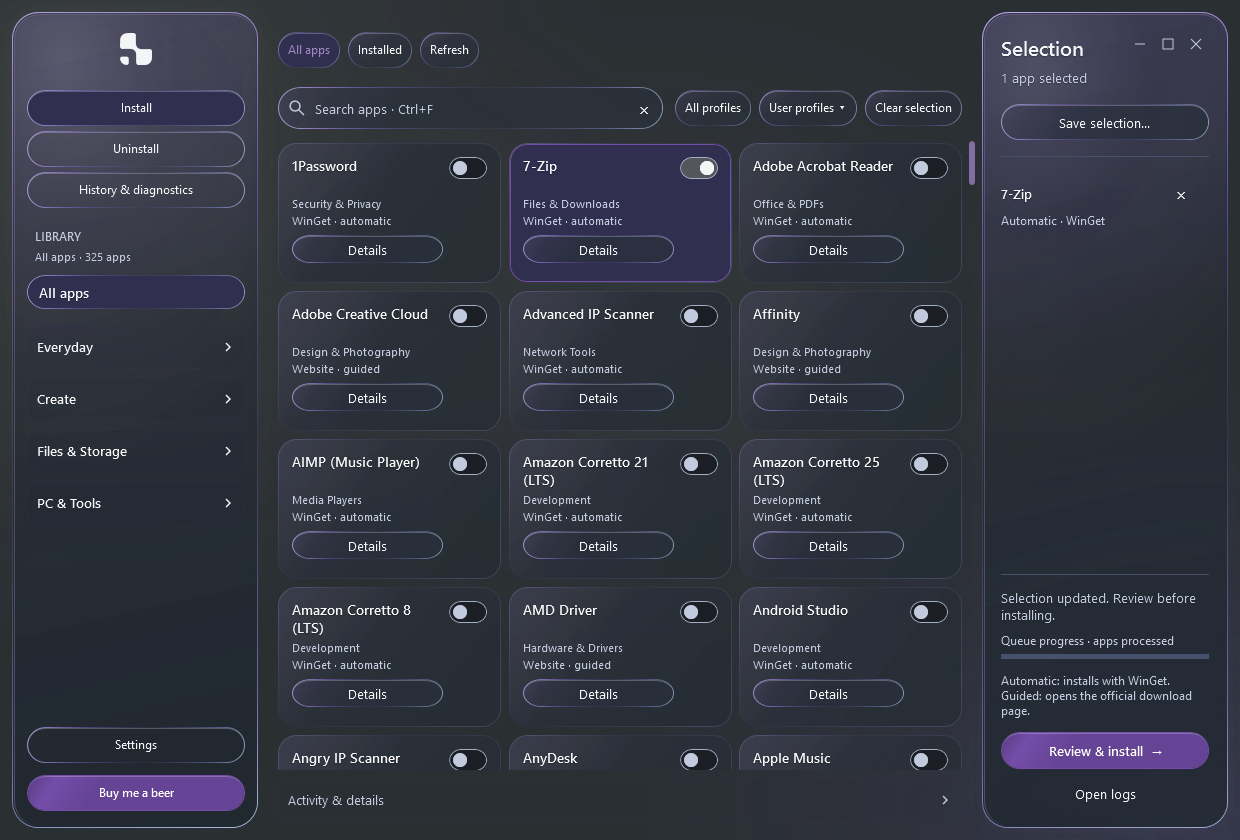
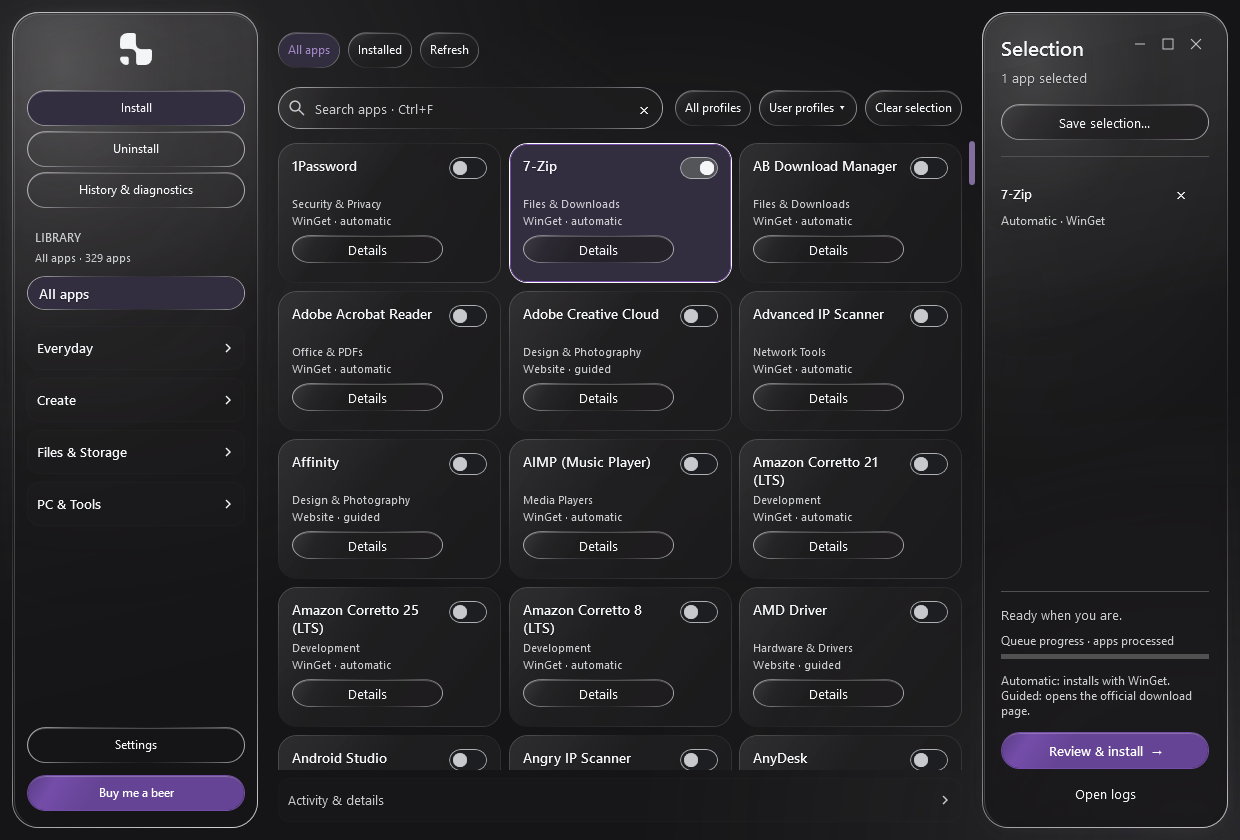
Prepare 1nstall 4.0.1
Version numbers, the release branch and tag of the publish job, changelog,
release notes and validation notes. The dark library picture of the README is
retaken with the neutral dark theme; the dark Uninstall picture is still the
3.6 one.

diff --git a/app/Program.cs b/app/Program.cs
@@ -15,8 +15,8 @@ using System.Windows;
 [assembly: AssemblyProduct("1nstall")]
 // The 3.6 updater accepts a release only if this assembly is named "1nstall" and its
 // version equals the release tag (update-helper.cs, "Release executable version mismatch").
-[assembly: AssemblyVersion("4.0.0.0")]
-[assembly: AssemblyFileVersion("4.0.0.0")]
+[assembly: AssemblyVersion("4.0.1.0")]
+[assembly: AssemblyFileVersion("4.0.1.0")]
 
 // Milliseconds since Windows created the process, as the 3.6 launcher counts them.
 sealed class StartupTimer {
@@ -34,7 +34,7 @@ static class Program {
     // the user's profile is read or written, so interface tests can drive it freely. Installing
     // is refused there, unless ONEINSTALL_TEST_WINGET names a stand-in program to run instead.
     static readonly string[] Tests={"--self-test","--startup-test","--ui-test"};
-    public const string Version="4.0.0";
+    public const string Version="4.0.1";
     static StartupTimer timer;
     static readonly StringBuilder marks=new StringBuilder();
 

diff --git a/docs/VALIDATION.md b/docs/VALIDATION.md
@@ -1,12 +1,12 @@
-# Validation — 1nstall 4.0.0
+# Validation — 1nstall 4.0.1
 
 How 4.0 was specified from the 3.6 code, compared with it and built is recorded phase by phase in [rewrite/](rewrite/README.md) (in Portuguese), with the evidence for each claim. Commands are in [DEVELOPING.md](DEVELOPING.md). Local checks use fictional apps and data beside the test build; no personal application is installed or removed.
 
 ## Current checks
 
-- Catalog: 325 apps, 24 categories, 20 profiles, 200 shortlist mappings and 911 benchmark rows. The preserved taxonomy and provenance are in `catalog/`.
+- Catalog: 329 apps, 24 categories, 20 profiles, 200 shortlist mappings and 911 benchmark rows. The preserved taxonomy and provenance are in `catalog/`.
 - Languages: 51 choices with 239 matching strings and valid placeholders.
-- Engine rules: 77 Rust tests, and the oracle, which replays the behaviour recorded from the 3.6 helpers. Of 1552 recorded cases, 1527 are identical and the other 25 are listed, intentional differences; none is unexplained. The tests also read thirty thousand damaged copies of the files the engine keeps, and compare the WinGet command lines of an install with 3.6 run live.
+- Engine rules: 79 Rust tests, and the oracle, which replays the behaviour recorded from the 3.6 helpers. Of 1552 recorded cases, 1527 are identical and the other 25 are listed, intentional differences; none is unexplained. The tests also read thirty thousand damaged copies of the files the engine keeps, and compare the WinGet command lines of an install with 3.6 run live.
 - Removal, on GitHub's disposable Windows Server 2022 and 2025 machines: eight recorded fixture scenarios; fixture apps removed, scanned and cleaned through the boundary the window uses, one for the current user and one machine-wide in the 32-bit registry view with an uninstaller that hands the work to a child process; and a queue of two stopped midway.
 - Real install: Sumatra PDF installed through the engine's queue on Windows Server 2025. The 2022 image has no WinGet.
 - Update from 3.6: the released 3.6.0 executable applies a 4.0 build with its own updater, on both images.
@@ -16,7 +16,7 @@ How 4.0 was specified from the 3.6 code, compared with it and built is recorded 
 - Release: the source archive alone builds the application, and the build signs with a test certificate (11 checks).
 - Motion: all three presets, track bounds, repeated reversals, native UIA state, press/cancel, live reduced-motion changes and completion callbacks. The mathematical checks also run headlessly in CI.
 
-The four English images in `images/` were captured with 3.6; the 4.0 window is the same compiled interface. Logs are generated under ignored `test-logs/` and `dist/`, and CI logs accompany the release.
+`images/install-dark.png` was captured with 4.0.1. The other three English images were captured with 3.6: the two light ones show the same interface, and `uninstall-queue-dark.png` still shows the dark colours of 3.6 and 4.0.0. The neutral dark theme of 4.0.1 was judged on pictures of the window with six accent colours (`app/tests/accent-pictures.ps1`), taken on one Windows 11 PC. Logs are generated under ignored `test-logs/` and `dist/`, and CI logs accompany the release.
 
 ## Remaining coverage
 

diff --git a/docs/releases/4.0.1.md b/docs/releases/4.0.1.md
@@ -1,0 +1,27 @@
+# 1nstall 4.0.1
+
+A calmer dark theme and four more apps.
+
+## What's new
+
+- **Neutral dark theme.** The dark appearance is now charcoal grey and looks the same whatever your Windows accent colour is. The accent colours only what is selected or acts: buttons, switches, selected cards and the active page, as it already did in the light theme. Earlier versions tinted the dark panels with the opposite of the accent colour over blue-grey and lavender, and some accent colours clashed with it. The light theme and the monochrome option are unchanged.
+- **Four more apps, 329 in all.** AB Download Manager (Files & Downloads), ArtCraft Studio (AI Tools) and T3 Code (Development) install with WinGet. ArtCraft Launcher (Design & Photography), which installs the ArtCraft creative apps, has no WinGet package, so it opens the publisher's download page.
+
+Everything else is 4.0.0: the same engine rules, files and settings.
+
+## Download
+
+- **1nstall.exe:** standalone Windows x64 app.
+- **1nstall-4.0.1-Windows-x64.zip:** executable, documentation, notices, build information and CI logs.
+- **1nstall-4.0.1-source.zip:** exact tracked source bytes corresponding to the build.
+- **SHA256SUMS.txt / BUILD-INFO.json:** SHA-256 hashes, source commit and build provenance.
+
+Installations of 3.3 or newer can receive this release through Settings > Automatic updates. Older releases require a manual download.
+
+## Requirements and limits
+
+Windows 10/11 x64 and .NET Framework 4.8/WPF, which Windows includes. Automatic app installation needs WinGet and internet access. The other requirements and limits are those of [4.0.0](https://github.com/braga1k/1nstall/releases/tag/v4.0.0).
+
+The executable is unsigned. Builds are not bit-for-bit reproducible. The new dark theme was looked at with six accent colours on one Windows 11 PC, through a test setting that names the colour without changing Windows; a live change of the Windows accent colour while the app is open was not exercised. The four new apps were checked against their WinGet manifests or official page; installing them was not tested. Not run on Windows 10.
+
+[README](https://github.com/braga1k/1nstall/tree/v4.0.1) · [Build and checks](https://github.com/braga1k/1nstall/blob/v4.0.1/docs/DEVELOPING.md) · [Validation](https://github.com/braga1k/1nstall/blob/v4.0.1/docs/VALIDATION.md) · [Changelog](https://github.com/braga1k/1nstall/blob/v4.0.1/CHANGELOG.md)

diff --git a/docs/rewrite/fase-4/README.md b/docs/rewrite/fase-4/README.md
@@ -531,3 +531,12 @@ Conferido depois, com os ficheiros descarregados da release:
 | O ZIP portátil | Contém o mesmo executável |
 | O que o atualizador da 3.6 lê na API do GitHub | Última release `v4.0.0`, publicada, com o `1nstall.exe` e o seu SHA-256 |
 | Uma 3.6 verdadeira, no PC do autor, com atualizações automáticas | Descarregou a 4.0 três minutos depois da publicação, com o SHA-256 da release, aplicou-a sem erro e a 4.0 arrancou |
+
+## A 4.0.1
+
+Pedida por ti em 2026-11-20. Duas alterações, nenhuma nas regras do motor:
+
+1. **Tema escuro neutro, uma diferença intencional em relação à 3.6.** A 3.6 (e a 4.0.0, que a copiou) tingia os painéis escuros com o inverso da cor de destaque, sobre superfícies azul-acinzentadas e luzes lavanda; com algumas cores do Windows a mistura ficava mal. Na 4.0.1 as superfícies escuras são cinzento-carvão, iguais com qualquer cor, e a cor do Windows fica só no que está selecionado ou atua, como já acontecia no tema claro. Uma primeira versão, que tingia tudo com a própria cor de destaque, foi rejeitada por ti ao ver as imagens. O tema claro e a opção monocromática não mudaram. O código está em `app/Theme.cs` (`SetAccentPalette`, `Neutral`, `Gray`) e `src/appearance.cs` (`Background`, `Apply`).
+2. **Quatro apps no catálogo, 329 no total:** AB Download Manager, ArtCraft Studio e T3 Code, pelo WinGet, e ArtCraft Launcher, pela página oficial, porque não tem pacote no WinGet. Os identificadores e as versões foram lidos dos manifestos do WinGet; a instalação não foi testada.
+
+Como foi visto: `app/tests/accent-pictures.ps1` fotografa a janela com seis cores de destaque nos dois temas, dizendo a cor à aplicação por `ONEINSTALL_TEST_ACCENT` (só em modo de teste), sem ler nem mudar a cor do Windows. Não foi exercitada uma mudança da cor do Windows com a janela aberta. A imagem `docs/images/uninstall-queue-dark.png` do README continua a ser a da 3.6, com as cores antigas.

diff --git a/docs/DEVELOPING.md b/docs/DEVELOPING.md
@@ -66,7 +66,7 @@ Update the assembly version and `Program.Version` in `app/Program.cs`, the engin
 
 Commit before the final build. `scripts/package-release.ps1` requires a clean build from HEAD and fresh output directories. It verifies source-input hashes, creates portable/source ZIPs and computes asset checksums. The source ZIP preserves exact working bytes, including Windows line endings. Timestamped metadata means bit-for-bit reproducibility is not claimed.
 
-Windows CI runs the catalog and locale checks and the engine tests, builds, runs headless elastic-motion checks and the packaged self-test, then packages the assets. Pushing the configured `release/4.0.0` branch creates a draft, verifies every uploaded asset name and SHA-256 digest, then publishes the stable release as latest. Existing published releases are never overwritten.
+Windows CI runs the catalog and locale checks and the engine tests, builds, runs headless elastic-motion checks and the packaged self-test, then packages the assets. Pushing the configured `release/4.0.1` branch creates a draft, verifies every uploaded asset name and SHA-256 digest, then publishes the stable release as latest. Existing published releases are never overwritten.
 
 Release assets include the executable, portable/source ZIPs, BUILD-INFO.json, notices, checksums and test logs. Download the published assets and verify hashes and the executable tests before reporting publication complete.
 

diff --git a/CHANGELOG.md b/CHANGELOG.md
@@ -1,5 +1,10 @@
 # Changelog
 
+## 4.0.1 - 2026-11-20
+
+- Make the dark theme neutral: charcoal surfaces that look the same with every Windows accent colour. The accent now colours only what is selected or acts (buttons, switches, selected cards, the active page), as it already did in the light theme. 3.6 and 4.0.0 tinted the dark panels with the inverse of the accent over blue-grey and lavender, which clashed with some accent colours. The light theme and the monochrome option are unchanged.
+- Add AB Download Manager, ArtCraft Studio and T3 Code (installed with WinGet) and ArtCraft Launcher (official download page) to the catalog: 329 apps.
+
 ## 4.0.0 - 2026-11-19
 
 - Rebuild the app as a native C# window over a Rust engine. The PowerShell host is gone; the interface, motion, languages and catalog are those of 3.6. The rules were ported from the 3.6 code and compared with it by a recorded oracle.
